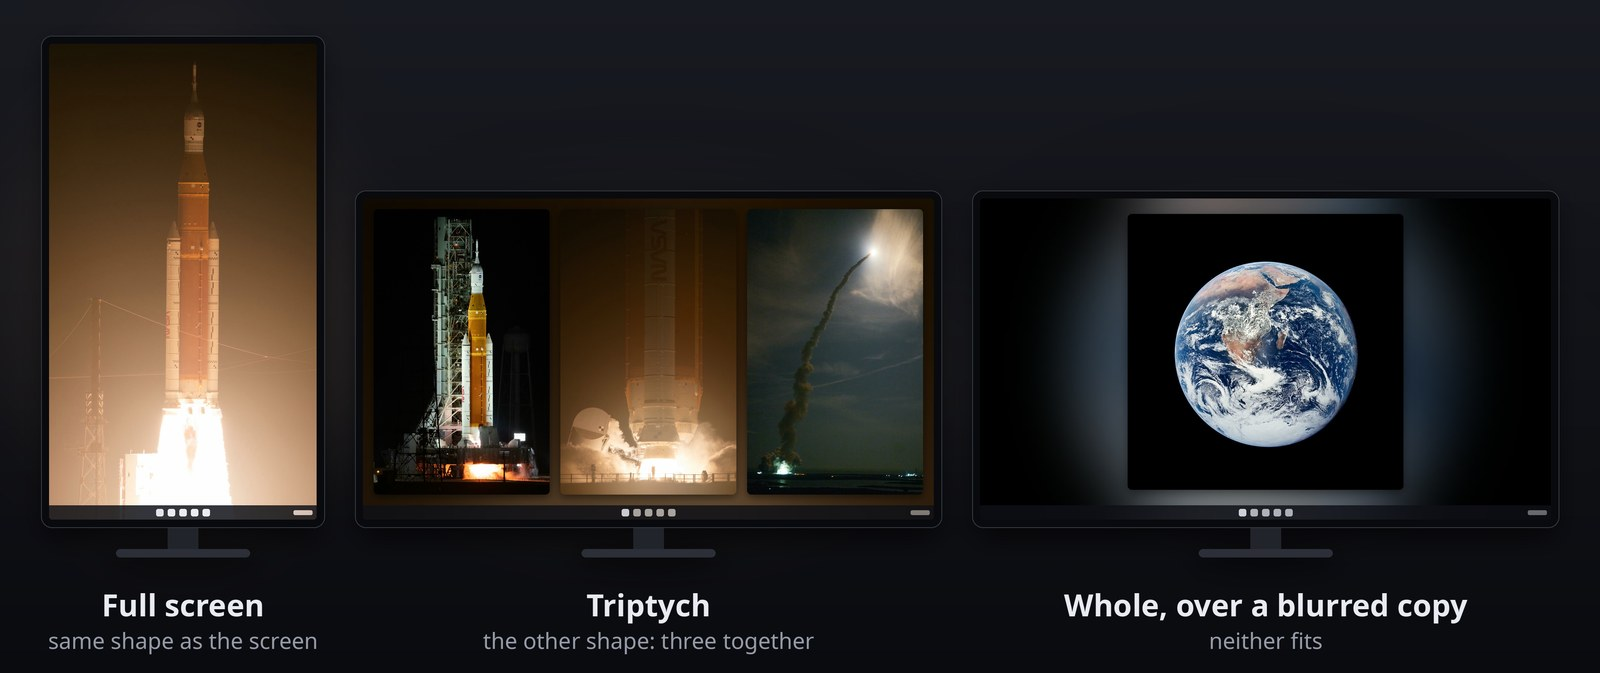
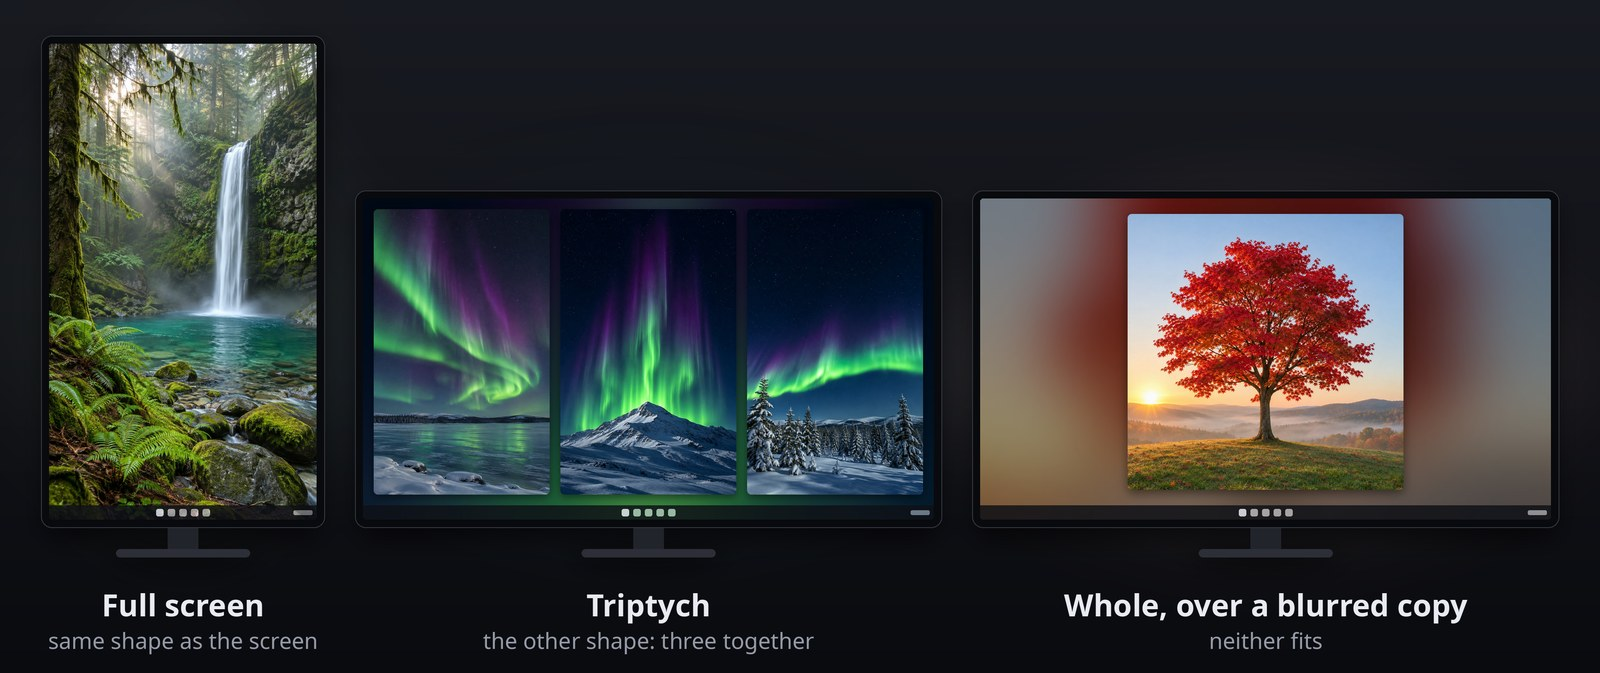
Use AI-generated sample wallpapers in the README
The hero image and the screenshot of the settings window now show
wallpapers generated with AI for this page instead of NASA photos, and
the caption under the hero says so.

diff --git a/README.md b/README.md
@@ -16,9 +16,9 @@
   <img alt="Runs on Windows 11 and Ubuntu (GNOME)" src="https://img.shields.io/badge/runs%20on-Windows%2011%20%7C%20Ubuntu%20(GNOME)-2bb3ff">
 </p>
 
-![Three screens with wallpapers placed by Everwall: a portrait photo fills a portrait screen, three portrait photos form a triptych on a wide screen, and a square photo sits whole over a blurred copy of itself](docs/hero.jpg)
+![Three screens with wallpapers placed by Everwall: a portrait image fills a portrait screen, three portrait images form a triptych on a wide screen, and a square image sits whole over a blurred copy of itself](docs/hero.jpg)
 
-<p align="center"><sub>Photos: NASA, public domain (the Artemis I launch by Joel Kowsky, the Earth by the Apollo 17 crew).</sub></p>
+<p align="center"><sub>The sample wallpapers were generated with AI for this page.</sub></p>
 
 Windows can show a slideshow, but it picks images blindly: a portrait photo on
 a landscape monitor ends up cropped or letterboxed, and a rotated monitor gets
